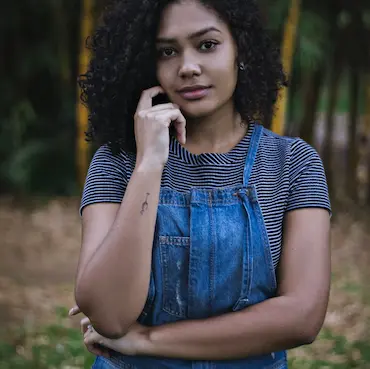
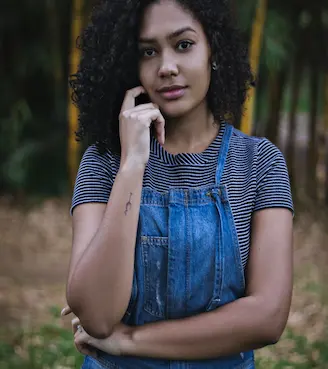
more adjustements on carrousel img

diff --git a/index.html b/index.html
@@ -72,7 +72,7 @@
 		</div>
 		<div class="carousel-inner">
 			<div class="carousel-item active">
-				<img src="./assets/images/slider/ryoji-iwata-wUZjnOv7t0g-unsplash.webp" width="1350" height="624" class="d-block w-100" alt="Photo d'un homme en costume en train de traverser un passage piéton.">
+				<img src="./assets/images/slider/ryoji-iwata-wUZjnOv7t0g-unsplash.webp" width="1224" height="624" class="d-block w-100" alt="Photo d'un homme en costume en train de traverser un passage piéton.">
 			</div>
 			<div class="carousel-item">
 				<img loading="lazy" src="./assets/images/slider/nicholas-green-nPz8akkUmDI-unsplash.webp" width="1350" height="624" class="d-block w-100" alt="Photo d'une foule de personne enjouées">
@@ -91,7 +91,7 @@
 </div>
 <div id="about">
 	<div class="picture left">
-		<img loading="lazy" src="./assets/images/nina.webp" width="370" height="369" alt="Portrait de Nina Carducci, la propriétaire du site.">
+		<img loading="lazy" src="./assets/images/nina.webp" width="324" height="369" alt="Portrait de Nina Carducci, la propriétaire du site.">
 	</div>
 	<div id="about-me">
 		<h2 class="about-me__title">A propos de moi</h2>

diff --git a/assets/style.css b/assets/style.css
@@ -6,7 +6,6 @@ body {
 * {
 	font-family: 'Inter';
 	font-style: normal;
-	font-display: swap;
 }
 .top-header {
 	background-color: white;
